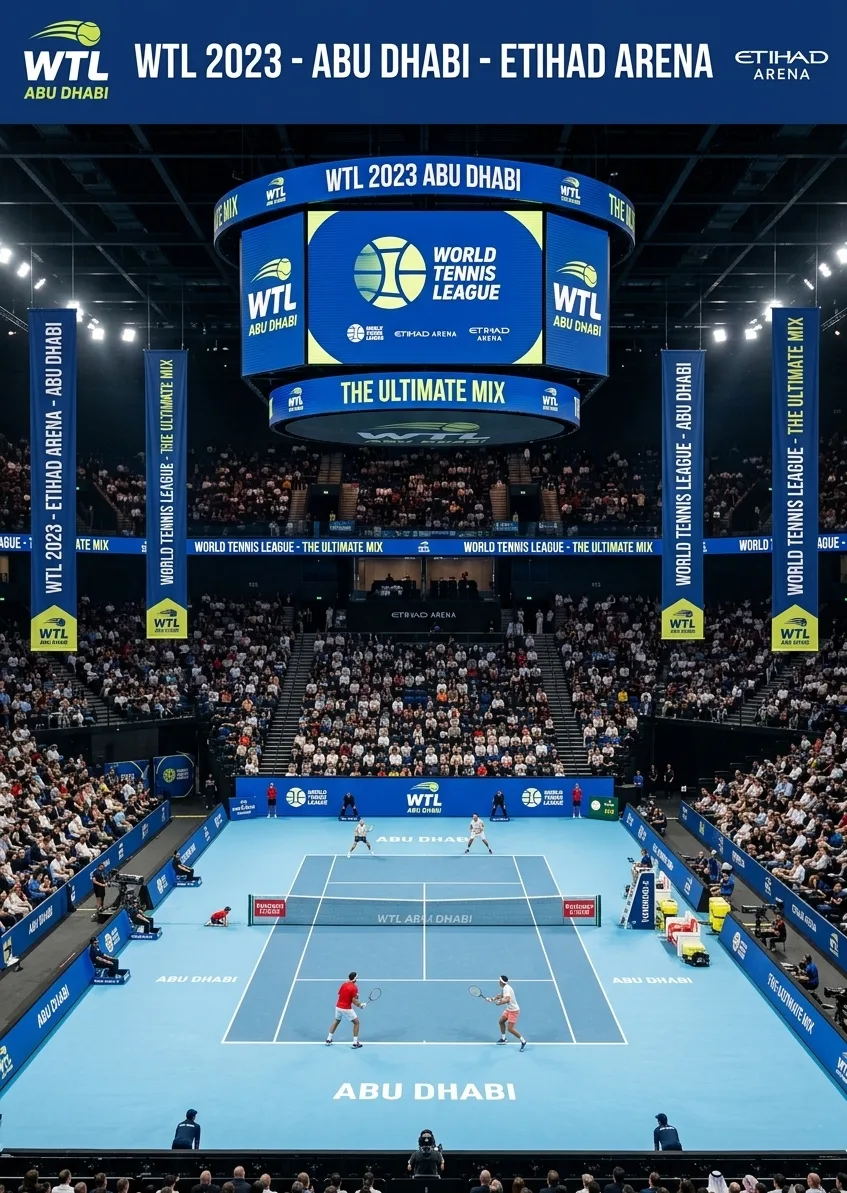
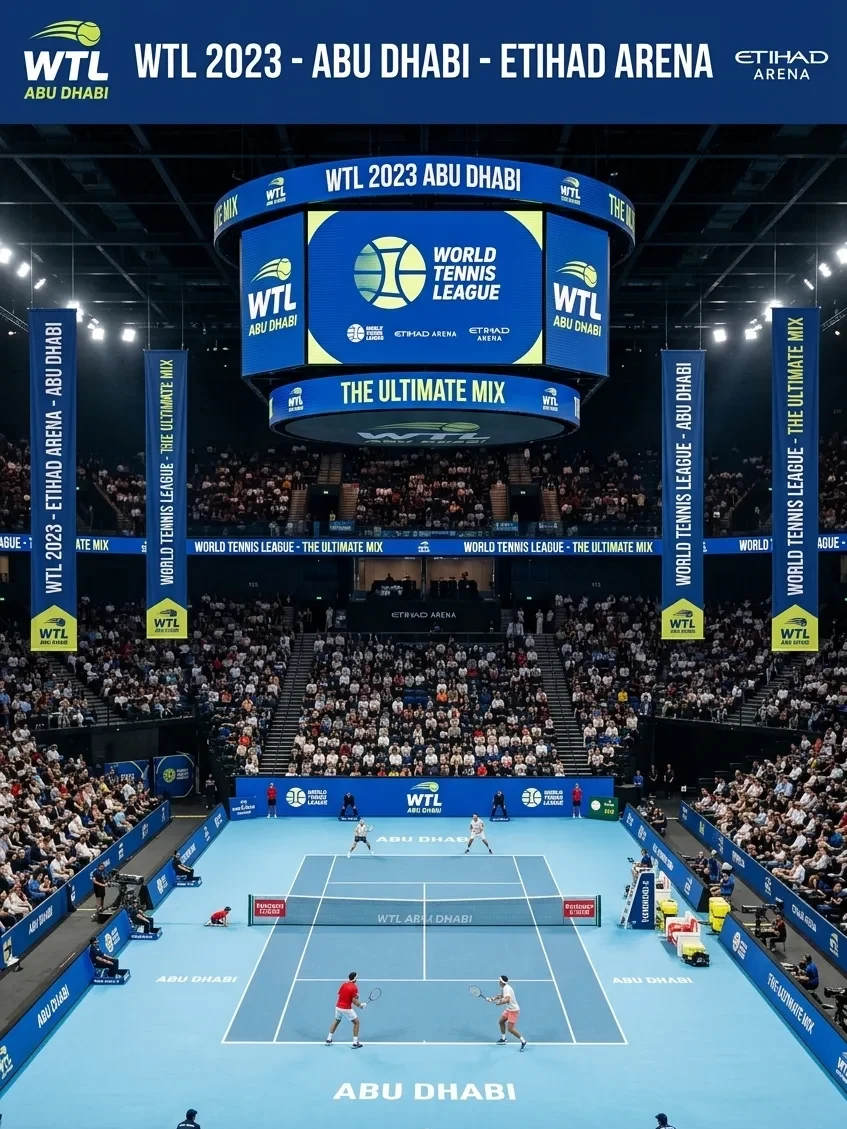
Fix World Tennis League card crop and correct venues/dates
Re-crop the WTL poster to exactly 3:4 (847x1129, trimmed from the
bottom) so the header banner is no longer clipped by object-cover on
the homepage Events Portfolio card.

Correct the venue: the 2022 edition was at Coca-Cola Arena Dubai
(19-24 Dec 2022) and the 2023 edition at Etihad Arena Abu Dhabi
(21-24 Dec 2023). Update card captions, event data, schema end date
and the case-study copy accordingly.

diff --git a/lib/event-it-data.js b/lib/event-it-data.js
@@ -75,14 +75,14 @@ export const events = [
     slug: 'world-tennis-league',
     name: 'World Tennis League',
     year: '2022, 2023',
-    location: 'Coca-Cola Arena, Dubai',
+    location: 'Coca-Cola Arena, Dubai (2022) & Etihad Arena, Abu Dhabi (2023)',
     region: 'UAE Events',
     category: 'Sports',
     tech: 'Arena WiFi, Hawk-Eye integration network, broadcast LAN, on-court connectivity',
-    stats: { users: '15K+ per night', sites: 'Coca-Cola Arena', duration: '2 editions' },
+    stats: { users: '15K+ per night', sites: 'Coca-Cola Arena & Etihad Arena', duration: '2 editions' },
     img: '/events/world-tennis-league.webp',
-    startDate: '2022-12-19', // confirmed: WTL Dubai edition Dec 19-23, 2022
-    endDate: '2023-12-23',   // second edition Dec 2023
+    startDate: '2022-12-19', // confirmed: 2022 edition Dec 19-24, Coca-Cola Arena Dubai
+    endDate: '2023-12-24',   // confirmed: 2023 edition Dec 21-24, Etihad Arena Abu Dhabi
   },
   {
     slug: 'mubadala-abu-dhabi-open',
@@ -1071,30 +1071,30 @@ subpages['wba-light-heavyweight-championship'] = {
 }
 
 subpages['world-tennis-league'] = {
-  keyword: 'World Tennis League Dubai IT Infrastructure',
-  title: 'World Tennis League (2022, 2023) Dubai: Arena Tennis IT Case Study | IP Care',
-  metaDescription: 'How IP Care delivered arena WiFi, broadcast LAN, Hawk-Eye integration and on-court connectivity for the World Tennis League at Coca-Cola Arena Dubai across the 2022 and 2023 editions.',
-  h1: 'World Tennis League (2022, 2023): Coca-Cola Arena Dubai IT Case Study',
+  keyword: 'World Tennis League UAE IT Infrastructure',
+  title: 'World Tennis League Dubai & Abu Dhabi: Arena Tennis IT Case Study | IP Care',
+  metaDescription: 'How IP Care delivered arena WiFi, broadcast LAN, Hawk-Eye integration and on-court connectivity for the World Tennis League at Coca-Cola Arena Dubai (2022) and Etihad Arena Abu Dhabi (2023).',
+  h1: 'World Tennis League (2022, 2023): Dubai & Abu Dhabi Arena IT Case Study',
   h1Accent: 'World Tennis League',
-  hero: 'How IP Care delivered the arena network, broadcast LAN, Hawk-Eye officiating integration and on-court connectivity for the World Tennis League at Coca-Cola Arena Dubai, back-to-back editions, team exhibition format, ATP and WTA top-ten players on court.',
+  hero: 'How IP Care delivered the arena network, broadcast LAN, Hawk-Eye officiating integration and on-court connectivity for the World Tennis League, back-to-back editions at Coca-Cola Arena Dubai and Etihad Arena Abu Dhabi, team exhibition format, ATP and WTA top-ten players on court.',
   icon: 'Trophy',
   overview: [
-    'The World Tennis League is a relatively new exhibition tennis format, teams rather than individuals, top-ten ATP and WTA players, multi-day round-robin into finals, staged in indoor arena venues rather than the traditional tennis stadium environment. The 2022 inaugural edition and the 2023 second edition were held at Coca-Cola Arena Dubai, with IP Care delivering the IT operation for both.',
-    'This case study walks through how indoor-arena-tennis IT differs from outdoor tennis tournament work and from non-tennis arena events, the Hawk-Eye integration story, and what carried across from year one to year two.',
+    'The World Tennis League is a relatively new exhibition tennis format, teams rather than individuals, top-ten ATP and WTA players, multi-day round-robin into finals, staged in indoor arena venues rather than the traditional tennis stadium environment. The 2022 inaugural edition was held at Coca-Cola Arena Dubai (19-24 December 2022) and the 2023 second edition moved to Etihad Arena on Yas Island, Abu Dhabi (21-24 December 2023), with IP Care delivering the IT operation for both.',
+    'This case study walks through how indoor-arena-tennis IT differs from outdoor tennis tournament work and from non-tennis arena events, the Hawk-Eye integration story, and what carried across from year one in Dubai to year two in Abu Dhabi.',
     'What is technically different about indoor arena tennis',
-    'Three things shape indoor-arena tennis IT relative to other event categories. The first is the temporary court installation. Coca-Cola Arena is not natively a tennis venue. The court is installed for the duration of the event over the standard arena floor, which means the on-court connectivity, the Hawk-Eye camera positions, the chair umpire connectivity and the team-area integration all have to be installed and removed per edition. The cabling routing, the equipment placement and the on-court networking all sit on top of a non-permanent surface.',
+    'Three things shape indoor-arena tennis IT relative to other event categories. The first is the temporary court installation. Neither Coca-Cola Arena nor Etihad Arena is natively a tennis venue. The court is installed for the duration of the event over the standard arena floor, which means the on-court connectivity, the Hawk-Eye camera positions, the chair umpire connectivity and the team-area integration all have to be installed and removed per edition. The cabling routing, the equipment placement and the on-court networking all sit on top of a non-permanent surface.',
     'The second is the Hawk-Eye integration. Hawk-Eye is the officiating technology for ball-tracking, line-calling and broadcast graphics, deployed at every elite tennis event. It is a multi-camera optical system with its own dedicated processing rig and integration into both the chair umpire workflow and the broadcast graphics. The venue IT operation has to provide the network plant, the camera positioning support and the integration with broadcast and chair-umpire workflows.',
     'The third is the team-exhibition format. Unlike a traditional tour event with one match on at a time, World Tennis League rounds run as team matches with multiple constituent matches stacked across an evening session. The broadcast and on-court workflows have to handle the team format, with team-area connectivity, coaching integration, results aggregation across the team scoreline and broadcast graphics that operate at the team level rather than the individual match level.',
     'Architecture (both editions)',
-    'The Coca-Cola Arena build was anchored on the existing arena network footprint with tennis-specific additions: high-density WiFi 6 coverage across the bowl, concourses, hospitality and back-of-house; a Cisco Catalyst 9500-class broadcast LAN physically segmented from every other network; a dedicated Hawk-Eye integration network connecting the camera array, the processing rig and the chair umpire and broadcast positions; on-court connectivity for the chair umpire, line judges and the team-area integration; press centre LAN with broadcast-grade uplinks; team-area connectivity for the participating teams; and the standard arena CCTV layer integrated with venue command.',
+    'Each build was anchored on the host arena’s existing network footprint, Coca-Cola Arena in 2022 and Etihad Arena in 2023, with the same tennis-specific additions: high-density WiFi 6 coverage across the bowl, concourses, hospitality and back-of-house; a Cisco Catalyst 9500-class broadcast LAN physically segmented from every other network; a dedicated Hawk-Eye integration network connecting the camera array, the processing rig and the chair umpire and broadcast positions; on-court connectivity for the chair umpire, line judges and the team-area integration; press centre LAN with broadcast-grade uplinks; team-area connectivity for the participating teams; and the standard arena CCTV layer integrated with venue command.',
     'The kit',
     'Approximately 90 HPE Aruba WiFi 6 access points across the venue. A redundant Aruba CX 8325 switching core. An active-passive Palo Alto firewall pair. A Cisco Catalyst 9500-class broadcast LAN. A dedicated Hawk-Eye integration network. On-court cabling and connectivity for chair umpire, line judges and team areas. Press centre LAN. Team-area connectivity for each participating team. The NOC ran continuous for the multi-day round-robin and finals window.',
     'The numbers',
-    'Two consecutive editions, 2022 and 2023. Approximately 15,000 spectators per session. Multiple team matches per evening across a six-day window. Zero broadcast-impacting incidents across both editions. Zero Hawk-Eye-impacting incidents during live matches. The chair umpire and on-court officiating workflows operated cleanly across every match of both editions.',
+    'Two consecutive editions, 2022 in Dubai and 2023 in Abu Dhabi. Approximately 15,000 spectators per session. Multiple team matches per evening across a six-day window in 2022 and a four-day window in 2023. Zero broadcast-impacting incidents across both editions. Zero Hawk-Eye-impacting incidents during live matches. The chair umpire and on-court officiating workflows operated cleanly across every match of both editions.',
     'Operational rhythm',
-    'World Tennis League runs evening sessions across the six-day window. The IT operation maintains a steady state across the run, with pre-session validation each afternoon and continuous monitoring during the evening match windows. Pre-edition validation cycle was three days. T-3: full integration test across all networks plus a Hawk-Eye walkthrough with the broadcast and officiating teams. T-2: dress rehearsal of the chair umpire and team-area workflows. T-1: hard validation freeze and final broadcast handshake. Match day cadence: pre-session bridge meeting at 14:00, hard freeze at 16:00 for an 18:00 doors call, continuous monitoring through the evening sessions.',
+    'World Tennis League runs evening sessions across the event window, six days in 2022 and four in 2023. The IT operation maintains a steady state across the run, with pre-session validation each afternoon and continuous monitoring during the evening match windows. Pre-edition validation cycle was three days. T-3: full integration test across all networks plus a Hawk-Eye walkthrough with the broadcast and officiating teams. T-2: dress rehearsal of the chair umpire and team-area workflows. T-1: hard validation freeze and final broadcast handshake. Match day cadence: pre-session bridge meeting at 14:00, hard freeze at 16:00 for an 18:00 doors call, continuous monitoring through the evening sessions.',
     'Year-on-year evolution',
-    'The 2022 edition was the inaugural delivery and required first-principles build of the Hawk-Eye integration network, the team-area connectivity workflow and the on-court cabling design. By 2023, those elements were documented and largely template-driven, which materially shortened the build window. The 2023 broadcast LAN was upgraded for slightly higher production resolution. The team-area integration was refined based on year-one feedback from the participating teams.',
+    'The 2022 Dubai edition was the inaugural delivery and required first-principles build of the Hawk-Eye integration network, the team-area connectivity workflow and the on-court cabling design. By 2023, those elements were documented and largely template-driven, which materially shortened the build window even though the event moved to a new venue, Etihad Arena in Abu Dhabi. The 2023 broadcast LAN was upgraded for slightly higher production resolution. The team-area integration was refined based on year-one feedback from the participating teams.',
     'The pattern is consistent with the FIFA-UFC-NBA continuity story: year one is design-heavy, year two onwards is validation-heavy against an existing template.',
     'The hardest moments',
     'Year one\'s hardest moment was the Hawk-Eye integration handshake during the T-2 dress rehearsal. The camera array positioning had been completed against the design specification, but the actual sight-lines from the camera positions to the court required minor refinement on site. The predictive model had been accurate to within centimetres, but tennis ball-tracking demands tighter precision than that. The on-site adjustment took most of a working day and was completed before the first match. The lesson, Hawk-Eye camera positioning is a final-day on-court calibration task, not a build-design task, went into the year-two template and the 2023 build avoided the same lesson.',
@@ -1110,7 +1110,7 @@ subpages['world-tennis-league'] = {
     'Indoor arena tennis is a growing event category, exhibition formats, team formats and city-circuit events are appearing more frequently in venues that are not natively tennis venues. The capability to deliver tennis-grade IT in an arena environment is a specific blend of arena-event experience, on-court cabling discipline, Hawk-Eye integration history and team-format workflow understanding. The 2022 and 2023 World Tennis League editions developed this capability and informed our subsequent work on the Mubadala Abu Dhabi Open and other tennis engagements in the region.',
   ],
   features: [
-    { icon: 'Wifi', title: 'Arena WiFi 6', desc: '90+ access points across bowl, concourses, hospitality and back-of-house, engineered for evening-session crowd density across the six-day round-robin and finals.' },
+    { icon: 'Wifi', title: 'Arena WiFi 6', desc: '90+ access points across bowl, concourses, hospitality and back-of-house, engineered for evening-session crowd density across the round-robin and finals.' },
     { icon: 'Radio', title: 'Broadcast LAN', desc: 'Cisco Catalyst 9500-class network physically segmented from every other network, engineered to broadcast-grade latency and redundancy for the league broadcast partners.' },
     { icon: 'Camera', title: 'Hawk-Eye Integration Network', desc: 'Dedicated network connecting the multi-camera array, processing rig and chair umpire and broadcast positions, on-court calibration refined per edition.' },
     { icon: 'Grid3x3', title: 'On-Court Connectivity', desc: 'Chair umpire, line judges and team-area integration on temporarily installed court, installed and removed cleanly per edition.' },
@@ -1137,7 +1137,7 @@ subpages['world-tennis-league'] = {
     { q: 'What is unique about team-format tennis?', a: 'Multiple constituent matches stacked across an evening session in a team-vs-team round-robin format. The broadcast and on-court workflows handle the team format with team-area connectivity, coaching integration, results aggregation at the team level and broadcast graphics operating at the team level rather than the individual match level.' },
     { q: 'How did the year-one Hawk-Eye calibration finding shape the year-two build?', a: 'Camera positioning had been completed against the design specification but the actual sight-lines required on-court refinement. The on-site adjustment took most of a working day in year one. The lesson, Hawk-Eye camera positioning is a final-day on-court calibration task, not a build-design task, went into the year-two template, and the 2023 build avoided the same lesson.' },
     { q: 'Has this capability been applied to other tennis events?', a: 'Yes. The World Tennis League experience informed our subsequent work on the Mubadala Abu Dhabi Open (WTA 500) and other tennis engagements in the region. The architecture is portable across tennis formats; the venue and tournament specifics adapt within the template.' },
-    { q: 'How early do organisers need to engage?', a: 'For a first-edition delivery, six to eight weeks is comfortable. For a returning edition at the same venue, three to four weeks is workable because most of the work is template-driven validation against the previous edition.' },
+    { q: 'How early do organisers need to engage?', a: 'For a first-edition delivery, six to eight weeks is comfortable. For a returning edition, three to four weeks is workable because most of the work is template-driven validation against the previous edition, and that held even when the 2023 edition moved from Coca-Cola Arena Dubai to Etihad Arena Abu Dhabi.' },
   ],
 }
 

diff --git a/app/event-it/portfolio/PortfolioClient.js b/app/event-it/portfolio/PortfolioClient.js
@@ -23,7 +23,7 @@ export default function EventPortfolioPage() {
     { id: 15, name: 'Turkish Airlines EuroLeague Final Four 2025', slug: 'euroleague-final-four-2025', location: 'Etihad Arena, Abu Dhabi', year: '23-25 May 2025', services: 'EuroLeague broadcast LAN, multi-language commentary, timing & statistics integration', tech: 'HPE Aruba, Cisco Catalyst, Palo Alto', category: ['Sports', 'WiFi Deployments'], img: '/events/euroleague-final-four-2025.webp' },
     { id: 18, name: 'EuroLeague Basketball SuperCup Abu Dhabi 2026', slug: 'euroleague-supercup-2026', location: 'Etihad Arena, Abu Dhabi', year: '18-19 Sep 2026', services: 'Arena WiFi 6E, broadcast LAN, EuroLeague timing & statistics integration, NOC operations', tech: 'HPE Aruba, Cisco Catalyst, Palo Alto', category: ['Sports', 'WiFi Deployments'], img: '/events/euroleague-supercup-2026.webp' },
     { id: 5, name: 'WBA Light Heavyweight World Championship', slug: 'wba-light-heavyweight-championship', location: 'Etihad Arena, Abu Dhabi', year: '2022', services: 'Arena WiFi, Broadcast uplinks', tech: 'HPE Aruba, Cisco', category: ['Sports', 'WiFi Deployments'], img: '/events/wba-light-heavyweight-championship.webp' },
-    { id: 6, name: 'World Tennis League (2022, 2023)', slug: 'world-tennis-league', location: 'Coca-Cola Arena, Dubai', year: '2022, 2023', services: 'Arena WiFi, Hawk-Eye integration', tech: 'Cisco Meraki, HPE Aruba', category: ['Sports', 'WiFi Deployments'], img: '/events/world-tennis-league.webp' },
+    { id: 6, name: 'World Tennis League (2022, 2023)', slug: 'world-tennis-league', location: 'Coca-Cola Arena, Dubai & Etihad Arena, Abu Dhabi', year: '2022, 2023', services: 'Arena WiFi, Hawk-Eye integration', tech: 'Cisco Meraki, HPE Aruba', category: ['Sports', 'WiFi Deployments'], img: '/events/world-tennis-league.webp' },
     { id: 7, name: 'Mubadala Abu Dhabi Open', slug: 'mubadala-abu-dhabi-open', location: 'Zayed Sports City', year: 'Annual', services: 'Outdoor venue WiFi, Timing-system network', tech: 'HPE Aruba, Fluke', category: ['Sports', 'WiFi Deployments'], img: '/events/mubadala-abu-dhabi-open.webp' },
     { id: 8, name: 'Abu Dhabi Padel Master', slug: 'abu-dhabi-padel-master', location: 'Hudayriat Island, Abu Dhabi', year: '2023', services: 'Multi-court WiFi, Broadcast LAN, Court-side connectivity, Ball-tracking integration', tech: 'HPE Aruba, Cisco', category: ['Sports', 'WiFi Deployments'], img: '/events/abu-dhabi-padel-master.webp' },
     { id: 9, name: 'UAE Official National Day: 48th Edition', slug: 'uae-national-day', location: 'Zayed Sports City + nationwide venues', year: '2019', services: 'Multi-venue WiFi mesh, government-grade CCTV, command-centre integration, federal coordination', tech: 'HPE Aruba, Hikvision, Cisco', category: ['National', 'WiFi Deployments', 'CCTV & Security'], img: '/events/uae-national-day-48th.webp', video: 'https://www.facebook.com/plugins/video.php?href=https%3A%2F%2Fwww.facebook.com%2Freel%2F1002301510156090%2F&show_text=false&width=800', videoLabel: 'Watch 48th National Day' },

diff --git a/app/HomeClient.js b/app/HomeClient.js
@@ -859,7 +859,7 @@ function EventsPortfolio() {
     { slug: 'usa-basketball-2024', name: 'USA Basketball Showcase 2024', loc: 'Etihad Arena, Abu Dhabi • 2024', region: 'Sports', img: '/events/usa-basketball-2024.webp' },
     { slug: 'fina-world-swimming-championship', name: 'FINA World Swimming Championship', loc: 'Etihad Arena, Abu Dhabi • 2021', region: 'Sports', img: '/events/fina-world-swimming-championship.webp' },
     { slug: 'wba-light-heavyweight-championship', name: 'WBA Light Heavyweight Championship', loc: 'Etihad Arena, Abu Dhabi • 2022', region: 'Sports', img: '/events/wba-light-heavyweight-championship.webp' },
-    { slug: 'world-tennis-league', name: 'World Tennis League', loc: 'Coca-Cola Arena, Dubai • 2022, 2023', region: 'Sports', img: '/events/world-tennis-league.webp' },
+    { slug: 'world-tennis-league', name: 'World Tennis League', loc: 'Coca-Cola Arena, Dubai & Etihad Arena, Abu Dhabi • 2022, 2023', region: 'Sports', img: '/events/world-tennis-league.webp' },
     { slug: 'mubadala-abu-dhabi-open', name: 'Mubadala Abu Dhabi Open', loc: 'Zayed Sports City • Annual', region: 'Sports', img: '/events/mubadala-abu-dhabi-open.webp' },
     { slug: 'abu-dhabi-padel-master', name: 'Abu Dhabi Padel Master', loc: 'Hudayriat Island • 2023', region: 'Sports', img: '/events/abu-dhabi-padel-master.webp' },
     { slug: 'coldplay-world-tour', name: 'Coldplay World Tour', loc: 'Zayed Sports City, Abu Dhabi • 2024', region: 'Concerts', img: '/events/coldplay-world-tour.webp' },
